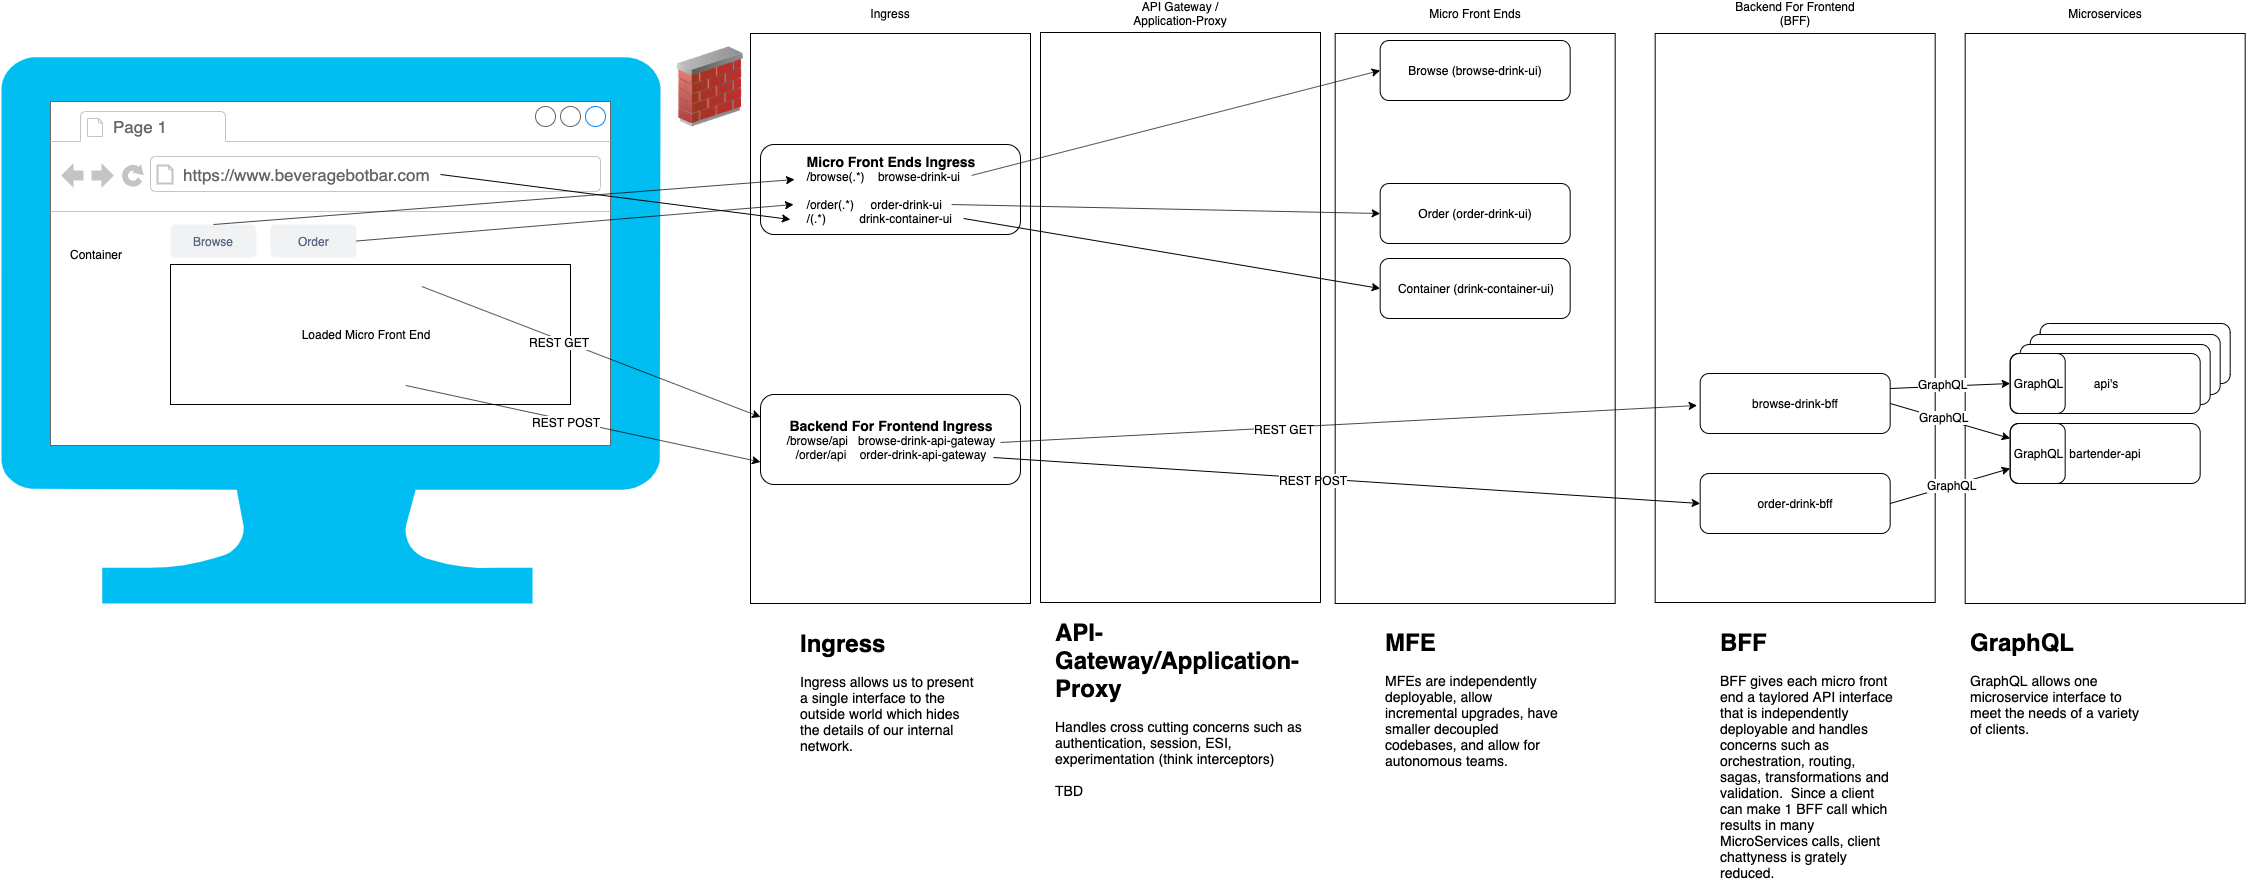
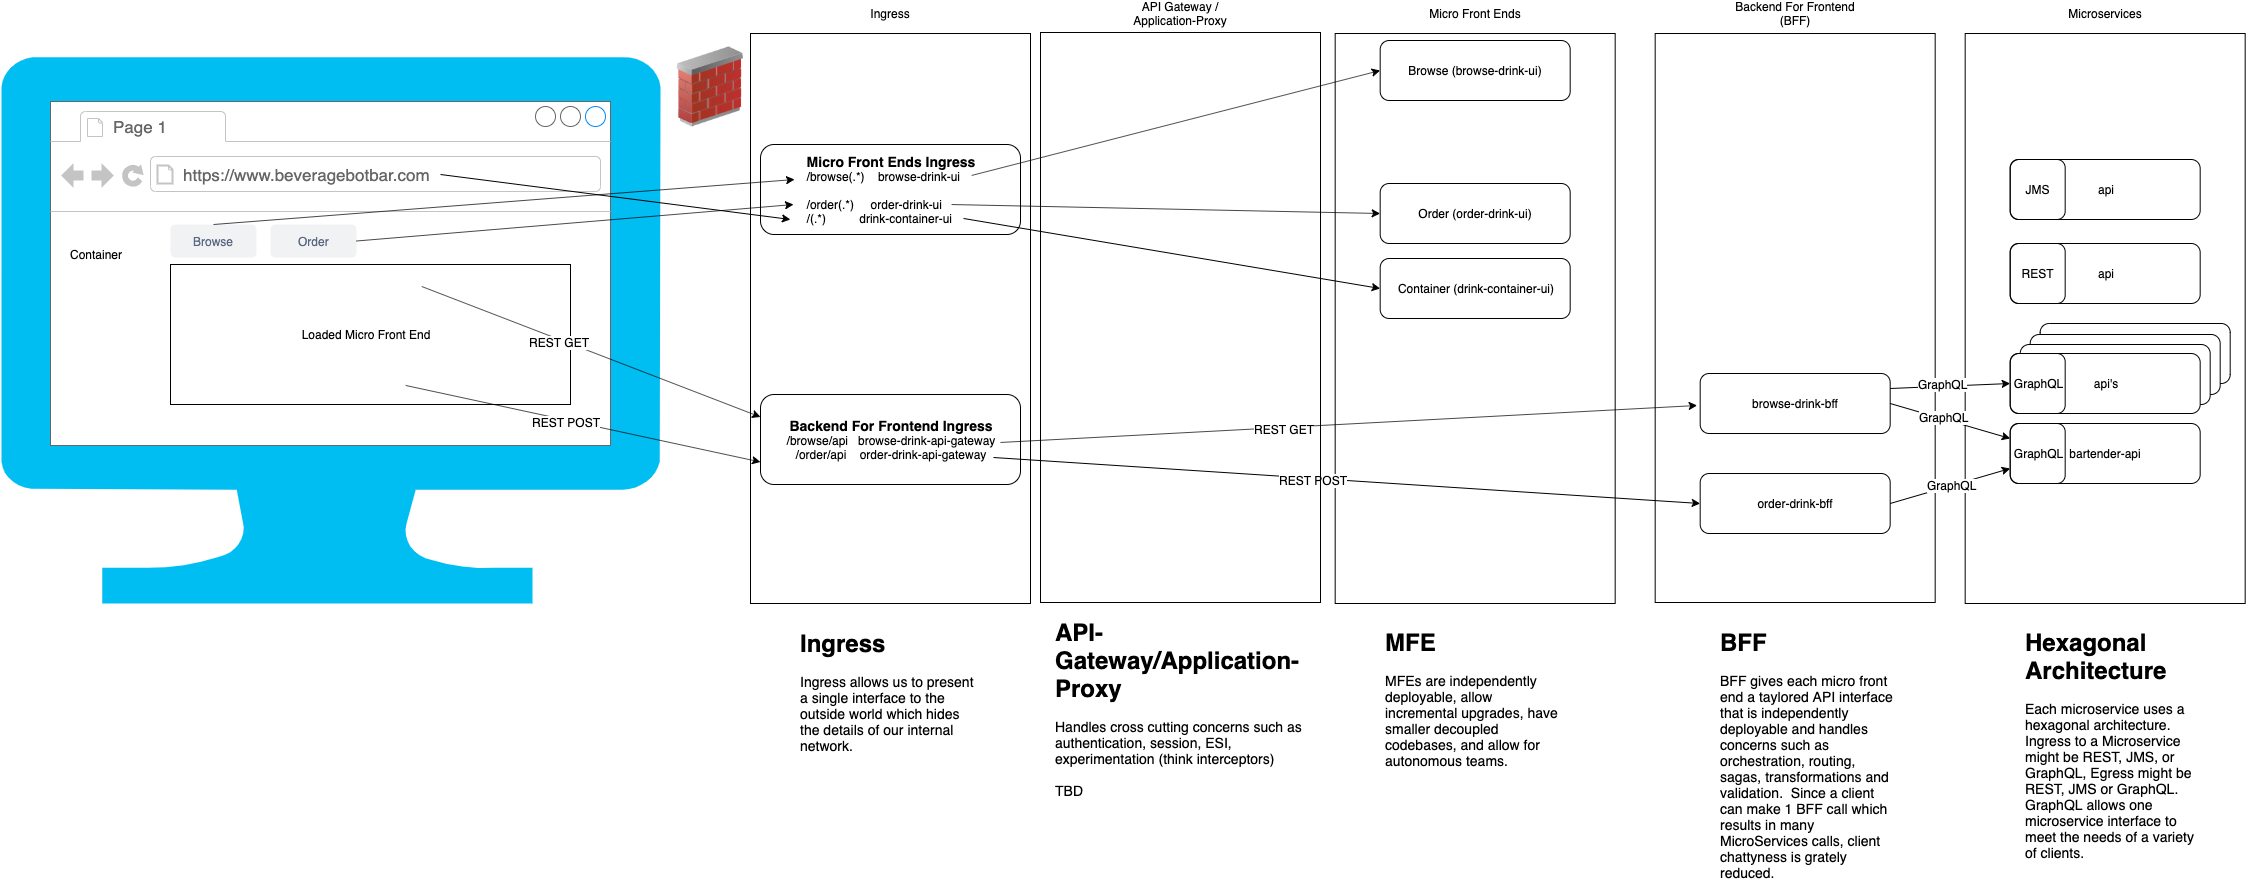
Updated architecture

Changed region(s): [[0.8727, 0.6946, 0.9662, 0.9664]]

diff --git a/README.md b/README.md
@@ -1,7 +1,4 @@
-# bar-stack
-![Bar System](./docs/BarSystem.png)
-
-# Architecture
+# bar-stack Architecture
 ![Architecture](./docs/Architecture.png)
 
 ## Techniques, Patterns and Technologies
@@ -19,7 +16,7 @@ API Gateway
 * Spring Cloud Gateway
 
 Microservice API's
-* GraphQL | REST (Jersey)
+* GraphQL | REST (Jersey) | JMS
 * Spring cloud config
 * Spring cloud sleuth
 * Spring cloud contracts
